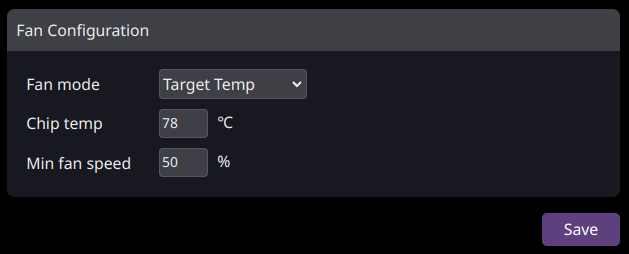
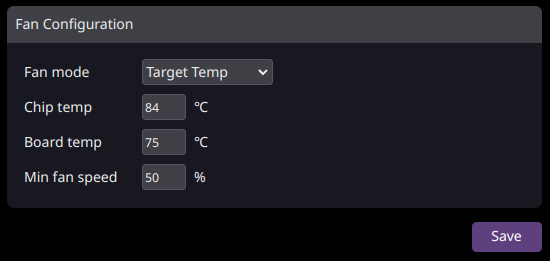
Updates for 0.8.1 and commercial builds

diff --git a/README.md b/README.md
@@ -20,12 +20,14 @@ If you have any issues, finding me (pbfarmer) in the Kaspa Discord will probably
   - [Additional telemetry and other changes to home page](#additional-telemetry-and-other-changes-to-home-page)
     - [Graphing of chip metrics and longer term hashrates](#graphing-of-chip-metrics-and-longer-term-hashrates)
     - [Uptime and job rate on pool status](#uptime-and-job-rate-on-pool-status)
-    - [Chip temperature monitoring](#chip-temperature-monitoring)
-    - [Real-time voltage and clock display](#real-time-voltage-and-clock-display)
-    - [Primary pool health monitor](#primary-pool-health-monitor)
   - [API](#api)
   - [General UI improvements](#general-ui-improvements)
+  - [Optional commercial Features](#optional-commercial-features)
+    - [Multiple user management](#multiple-user-management)
+    - [Hashrate splits](#hashrate-splits)
+    - [Branding/Logo replacement](#brandinglogo-replacement)
   - [Stability and security improvements](#stability-and-security-improvements)
+    - [Primary pool health monitor](#primary-pool-health-monitor)
     - [Fix for web server crashes](#fix-for-web-server-crashes)
     - [New auth/auth routines](#new-authauth-routines)
     - [TLS certificate management](#tls-certificate-management)
@@ -42,7 +44,7 @@ If you have any issues, finding me (pbfarmer) in the Kaspa Discord will probably
 
 # Special Thanks
 
-None of these firmwares would be possible without a number of people's efforts in testing and feedback (as well as specific efforts in pulling the stock firmware from the KS0 Pro - these people are mentioned in the release notes.)  
+None of these firmwares would be possible without a number of people's efforts in testing and feedback.
 
 However, one person in particular has sacrificed his machines from the beginning, granting me direct access for development, allowing me to risk his machines while testing brand new features, and suffering numerous mining interruptions during the frequent updates and restarts.  
 
@@ -60,11 +62,12 @@ kaspa:qzh2xglq33clvzm8820xsj7nnvtudaulnewxwl2kn0ydw9epkqgs2cjw6dh3y
 <br>
 
 # Known Issues
-* IceRiver ASICs insist on using static IP settings, even after you set them to DHCP.  If these IPs are not reserved in your router, at some point your router may assign these IPs to another device in your network, and you will have network / connection problems.  The solution to this is to find the MAC address to IP address mapping table in the LAN/DHCP section of your router settings, and add a mapping for every one of your ASICs (the MAC address should be on a sticker on the outside of your ASIC.)  Once you've added these mappings, restart the router, update every ASIC to use DHCP, and restart all of the ASICs.  Now your ASICs should acquire the fixed IP via DHCP, and even if/when they revert to static IPs, it should no longer cause issues, since the router has reserved the IP(s).
+* If you are unable to load the UI in your browser, or you get errors such as 'ASIC request failed', the most likely cause is browser caching.  This can often be resolved simply by holding 'Shift' while pressing the browser refresh button.  Another simple way to test whether caching is the problem, is by opening the page in a 'private' or 'incognito' browser window.  If this works, then clearing your cache or site data should resolve the issue.
+* IceRiver ASICs seem to insist on using static IP settings, even after you set them to DHCP.  If these IPs are not reserved in your router, at some point your router may assign these IPs to another device in your network, and you will have network / connection problems.  The solution to this is to find the MAC address to IP address mapping table in the LAN/DHCP section of your router settings, and add a mapping for every one of your ASICs (the MAC address should be on a sticker on the outside of your ASIC.)  Once you've added these mappings, restart the router, update every ASIC to use DHCP, and restart all of the ASICs.  Now your ASICs should acquire the fixed IP via DHCP, and even if/when they revert to static IPs, it should no longer cause issues, since the router has reserved the IP(s).
 * At some point a widespread DNS update seems to have affected multiple ISPs, which caused them to 'black-hole' traffic to *.pbfarmer.cc.  This meant that while the pool connections succeeded, all subsequent traffic disappeared into the void.  If you are seeing a similar situation where you appear to be connected to a pool, but are not getting any jobs or producing shares, try updating your DNS server (preferably in your router, but also possible on the ASIC) to a public option such as Google (8.8.8.8, 8.8.4.4), Cloudflare (1.1.1.1), etc.
 * A number of people have found that the fee traffic or maybe domain name are tripping spam/ddos/botnet protections in their routers, which commonly target mining traffic.  If your ASIC seems to connect to pools but is not mining (even after following the previous steps), check for these types of settings in your router and try disabling them.  For example, in my ASUS router, I need to disable the 'AIProtection' features called 'Two-Way IPS' and 'Infected Device Prevention and Blocking' to do any sort of crypto mining.
 * There may be incompatiblities between HiveOS/AsicHub or other 3rd party management/monitoring tools and this firmware.  Many of these tools scrape the ASIC UI to get data, and since I've signficantly modified the UI, their scrapers may no longer be compatible.  The only way to address this is for the management tools to migrate to the available API.
-* Many (most?) browsers seem to have a problem reverting to http after having loaded a page via https.  In chrome, I often need to use incognito windows to access the ASIC after reverting to stock from this firmware.  Clearing site data and/or restarting your browser or pc may help if you're experiencing this.
+* This firmware uses https, while the stock firmware uses insecure http.  Many (most?) browsers seem to have a problem reverting to http after having loaded a page via https.  In chrome, I often need to use incognito windows to access the ASIC after reverting to stock from this firmware.  Clearing site data and/or restarting your browser or pc may help if you're experiencing this.
 
 <br>
 
@@ -96,13 +99,13 @@ VOLTAGE CONTROL IS NOT AVAILABLE FOR KS3/M/L AT THIS TIME.
 
 ![Performance Settings](/docs/images/iceriver-oc_fan_settings.png)
 
-A new fan mode has been added which automatically adjusts fan speed to maintain a max hash chip temperature.  Temps are read every 10s and fan speed is adjusted as necessary.  
+A new fan mode has been added which automatically adjusts fan speed to maintain both max hash chip and board temperatures.  Temps are read every 10s and fan speed is adjusted as necessary.  
 
-It is suggested to use a minimum fan speed within maybe 75% of the speed the fans normally run, so that periods of highly dynamic temperature ranges (such as startup) do not allow excessive power stage temps while the hash chips are warming up.  For example, if the fans would settle around 80% during normal operating temps, a min fan speed of 60% may be appropriate.
+Please note, this setting does not guarantee the set temperature.  It may be exceeded by up to ~5C during startup or other dynamic periods, but it should stabilize at or near the requested temperature.
 
-Please note, this setting does not guarantee the set temperature.  It may overshoot during startup or other dynamic periods, but it should stabilize at or near (within a few degrees) the requested temperature.
+If you find the target temps are exceeded beyond your comfort during startup or other dynamic periods, you should increase the min fan speed.
 
-Fixed fan speeds will also now be reapplied at startup, after a ~1-2m delay.
+Fixed fan speeds will also now be reapplied at startup, after a ~1-2m delay, though it is a one-time application.  This means that if the underlying IceRiver software decides to change the fan speed again for some reason, this mode will not re-apply your setting.  Consider using the 'Target Temp' mode with an appropriate min fan speed as an alternative.
 
 <br>
 
@@ -116,7 +119,13 @@ Fixed fan speeds will also now be reapplied at startup, after a ~1-2m delay.
 
 ![Home Page](/docs/images/iceriver-oc_home.png)
 
-Two hours of graphing has been added for all chip metrics, with filters for summaries (per board min/max/avg), board, or all chips.  Additionally, board temp graphs have been added for all models, which includes intake, and exhaust sensor temps, as well as power stage (driver) temps for KS0/Pro/Ultra, KS1, and KS2.  In summary mode, the max power stage temp is shown for each board, while in board mode, the max power stage temp is shown for each group/controller (PSG).  Max recommended operating temp is 125C according to the chip documentation, though it is probably wise to keep a healthy margin below this temp.  
+Two hours of graphing has been added for all chip metrics, with filters for summaries (per board min/max/avg), board, or all chips.  
+
+80c chip temps appear to result in ideal hashrate performance (though this may be difficult on KS0/Pro without cooling mods.)  No guidance has been provided by IceRiver as to safe chip temp limits, but their miner software appears to restrict clock raises above 95C, and will actually throttle clocks above 110C.  At least following general guidance from G/CPUs is probably prudent (e.g. >90C warning zone, >95C danger zone, >105C critical zone).  
+
+Please note that real-time voltage will never match your setting - drivers under load experience voltage drop, meaning the running voltage will always be below your voltage setting, with more load causing a greater drop.  Chip voltage will be replaced by power draw for KS5L/M, as there is no chip voltage reading available.  A software limit of 3350W is enforced on these models, where cores will be disabled in groups of 4 should you exceed this limit.
+
+Board temp graphs have been added for all models, which includes intake, and exhaust sensor temps, as well as power stage (driver) temps for KS0/Pro/Ultra, KS1, and KS2.  In summary mode, the max power stage temp is shown for each board, while in board mode, the max power stage temp is shown for each group/controller (PSG).  Max recommended operating temp is 125C according to the chip documentation, though it is probably wise to keep a healthy margin below this temp.  
 
 Please be aware, that temperature is not the only consideration for healthy operation.  Power/current draw is also a concern, for which we don't currently have visibility or specifications.
 
@@ -142,23 +151,6 @@ Multiple status indicators have been added to the pool section to help diagnose 
 
 <br>
 
-### Chip temperature monitoring
-The per-board max temp of the hash chips is added to the board stats section.  No guidance has been provided by IceRiver as to safe limits, but their miner software appears to restrict clock raises above 95C, and will actually throttle clocks above 110C.  At least following general guidance from G/CPUs is probably prudent (e.g. >85C warning zone, >95C danger zone, >105C critical zone).  
-
-Anecdotal evidence from users seems to indicate chip temps in the range of 70-80C provided optimal hashrates, at least on KS1/2/3*.  For KS0/PRO, this may be hotter than desired, as exhaust temps (primarily reflecting power stage temps) tend to be higher due to the tight enclosure and lack of airflow.  80c chip temps appear to be ideal for KS0 Ultras for maximum hashrate.
-
-<br>
-
-### Real-time voltage and clock display
-The per board real-time average chip voltage and clock values are added to the board stats section.  A spinning indicator is added while clocks are still ramping, indicating that hashrate has not yet reached the target.  Please note that real-time voltage will never match your setting - drivers under load experience voltage drop, meaning the running voltage will always be below the set voltage, with more load causing a greater drop.
-
-<br>
-
-### Primary pool health monitor
-Health-check loop run on primary pool availability.  If miner has switched to one of the secondary pools for any reason, you will be switched back to your primary pool as soon as it becomes available again.
-
-<br>
-
 ## API
 
 While the previously available API on port 4111 is still available, a new rationalized API including all of the additional features from the UI is now avaiable over https (port 443).
@@ -175,9 +167,38 @@ Full documentation is available in [json format](/docs/apidoc.json).
 
 <br>
 
+## Optional commercial Features
+
+A number of features have been added to a separate 'commercial' build intended for hosting or other large deployments.  These builds include a 'c' after the version number (e.g. *pbv081c_ks5mupdate.bgz*), and currently have an additional 0.33% fee (1.33% vs the standard 1%).
+
+### Multiple user management
+
+In addition to the standard primary/admin user, multiple users w/ differing access permissions can be added.  This allows for setups where, for example, the machine owner can be granted direct access to the machine, with permissions to view the main monitoring page and change pool configurations, while being restricted from changing network, fan or clock/voltage parameters.
+
+<br>
+
+### Hashrate splits
+
+The hashpower of the ASIC can be split to multiple endpoints based on a configurable percentage, to allow setting up hosting fees.  The number of splits is not limited, but please keep in mind that the firmware will maintain a pool/stratum connection for each split, which multiplies the incoming traffic.
+
+***This feature can also be used for splitting hashrate across multiple KHeavyHash coins at once***
+
+<br>
+
+### Branding/Logo replacement
+
+The 'PbFarmer' logo can be replaced with a branding image of your choice.  The image format should be a 112x60 PNG.
+
+<br>
+
 <br>
 
 ## Stability and security improvements
+
+### Primary pool health monitor
+Health-check loop run on primary pool availability.  If miner has switched to one of the secondary pools for any reason, you will be switched back to your primary pool as soon as it becomes available again.
+
+<br>
 
 ### Fix for web server crashes
 Replaced stock web server with updated and production environment targeted version, added cache/memory control configuration, and fixed memory leaks.  This should address the issues seen by users of HiveOS and other external monitoring tools that caused the web server to crash after too many page loads (resulting in the ASIC UI being unavailable.)
@@ -258,7 +279,7 @@ Proper tuning is a process that takes time.  Using other peoples settings is gen
 
 At that point, increase voltage by a single step (2mv for KS0 Pro, 7 or 6mv depending on current level for all other models), then see if hashrate responds.  If it does, and once again equals clock offset on a percentage basis, go back to raising clock.  Continue this back and forth between clock and voltage offsets until you reach your desired hashrate, while being mindful of temperature and power limits.
 
-While 5m and 30m hashrates in the GUI are useful tools for directional guidance after the machine has had time to ramp up, final hashrate measurements should be done over an extended time period.  5 minute hashrate readings are quite variable, and even 30 minute hashrate readings aren't great, as you can still have a couple percent variability.  The 2hr reading in the UI should have less than 1% variability from my experience, though it doesn't take hardware errors / pool rejections into account.
+While 5m and 30m hashrates in the GUI are useful tools for directional guidance after the machine has had time to ramp up, final hashrate measurements should be done over an extended time period.  5 minute hashrate readings are quite variable, and even 30 minute hashrate readings aren't great, as you can still have a couple percent variability.  The 2hr reading in the UI should have less than 1% variability from my experience (may be slightly above 1% on KS5L/M and KS0Ultra), though it doesn't take hardware errors / pool rejections into account.
 
 <br>
 
@@ -281,9 +302,9 @@ Regardless of the diff selected, hashrate measurements based on shares * difficu
 
 You need 1200 shares just to get to an expected variance of +/- 10% with 99% confidence.  E.g. for an expected hashrate of 1TH/s, in 99/100 measurements after 1200 shares, you will have a reading between 0.9TH/s and 1.1TH/s.  You need 4800 shares to reduce that variance to +/- 5%.  Many pools are using difficulties that produce share rates in the ~5 shares/min range.  Therefore, just to get a hashrate reading with an expected variance of <= +/- 10%, you would need a 1200 / 5 = 240 minute, or 4 hour reading.  If you want a reading with an expected variance +/- 5%, you would need over 16 hours of data.  You will never be able to confirm the results of an OC level below the expected variance of a given timeframe.  For example, you cannot possibly determine whether a 5% OC is working properly in a 4 hr / 1200 share window having 10% expected variance.  Even at 16hrs / 4800 shares, the expected variance can completely cancel out a 5% OC.  
 
-And this leads to the crux of the issue - most pools do not provide anything higher than a 24hr measurement, which at ~5 shares/minute means roughly 7200 shares, which is still a 4% expected variance.  You need 10K shares just for 3.3% variance, and about 100K shares for a 1% variance.  The 30m reading in the ASIC UI should have around a 2% variance, and the new 2hr reading should have less than 1% variance, but neither reflect the pool rejects.  Therefore, the only solution then, is to find a pool that lets you set your own difficulty, so that you can generate a statistically relevant number of shares for their available timeframes.  While Herominers seems to have this functionality, my recent tests seem to indicate it is not working, at least for a KS3.  
+And this leads to the crux of the issue - most pools do not provide anything higher than a 24hr measurement, which at ~5 shares/minute means roughly 7200 shares, which is still a 4% expected variance.  You need 10K shares just for 3.3% variance, and about 100K shares for a 1% variance.  The 30m reading in the ASIC UI should have around a 2% variance, and the new 2hr reading should have less than 1% variance, but neither reflect the pool rejects.  Therefore, the only solution then, is to find a pool that lets you set your own difficulty, so that you can generate a statistically relevant number of shares for their available timeframes.  Herominers is one such pool that allows this.
 
-The only option I know of which reliably allows setting your own diff is solo mining to your own node and the [kaspa-stratum-bridge](https://github.com/rdugan/kaspa-stratum-bridge). The default vardiff settings will produce a minimum 20 shares/min, which is enough to have <= +/- 5% variance in 4hrs, and the dashboard (grafana) allows measurements in any timeframe/resolution you want, including signficantly longer timeframes than 24hrs.  
+The best option for setting your own diff and seeing long enough measurement timeframes is solo mining to your own node and the [kaspa-stratum-bridge](https://github.com/rdugan/kaspa-stratum-bridge). The default vardiff settings will produce a minimum 20 shares/min, which is enough to have <= +/- 5% variance in 4hrs, and the dashboard (grafana) allows measurements in any timeframe/resolution you want, including signficantly longer timeframes than 24hrs.  
 
 As a concrete example of the difference between valid and invalid measurements (as well as how kaspa-stratum-bridge can help), here's the hashrate readings of 3 machines using diffs producing >= 30 shares/min, a KS0 at 51% OC, a KS1 at 37% OC, and a KS3M at 1% OC.  The measurements are, from top to bottom, 24hrs (>= 43K shares), 1hr (>= 1800 shares), and 30m (> 900 shares).  You can see how divergent the measurements can be from expected for the shorter timeframes:
 
